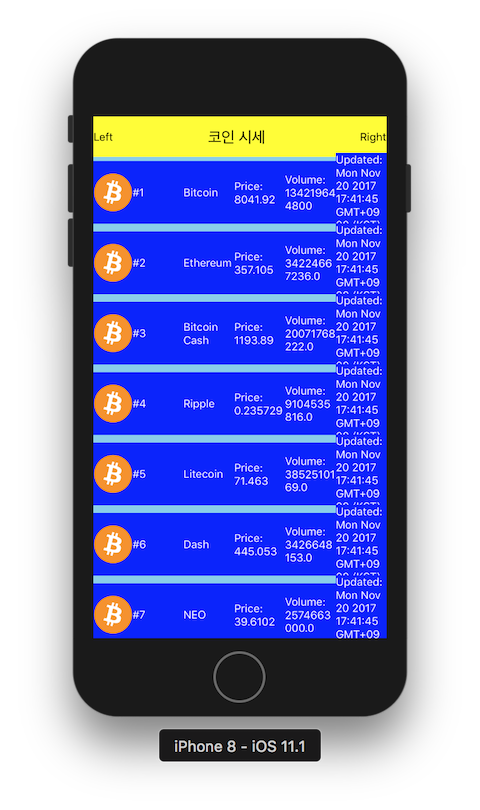
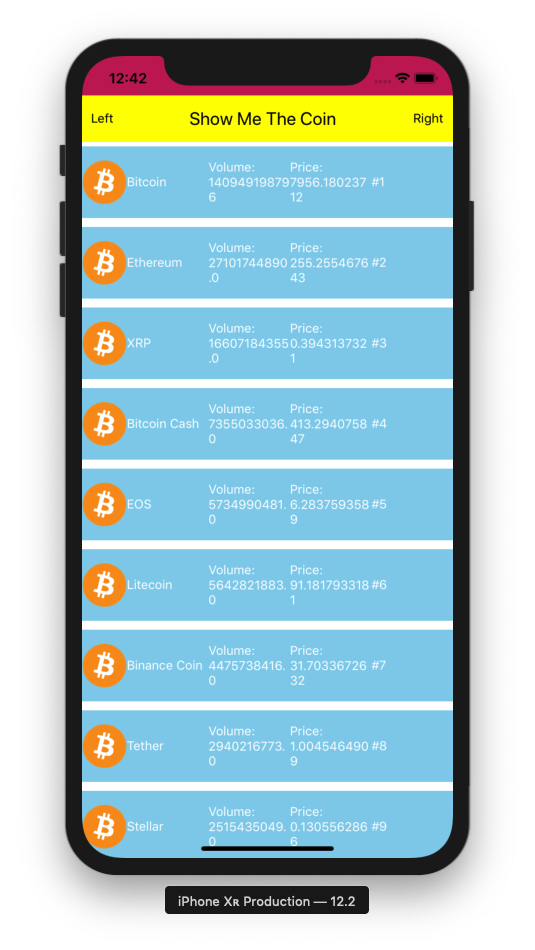
Apply real data

diff --git a/screens/CoinView.js b/screens/CoinView.js
@@ -2,47 +2,47 @@ import React from 'react';
 import { StyleSheet, Text, View } from 'react-native';
 import CoinItem from '../components/CoinItem';
 
-const sampleData = [
-  {
-        "id": "bitcoin",
-        "name": "Bitcoin",
-        "symbol": "BTC",
-        "rank": "1",
-        "price_usd": "6195.6",
-        "price_btc": "1.0",
-        "24h_volume_usd": "8119580000.0",
-        "market_cap_usd": "103323711420",
-        "available_supply": "16676950.0",
-        "total_supply": "16676950.0",
-        "max_supply": "21000000.0",
-        "percent_change_1h": "-1.8",
-        "percent_change_24h": "4.19",
-        "percent_change_7d": "-15.65",
-        "last_updated": "1510556652"
-    },
-    {
-        "id": "ethereum",
-        "name": "Ethereum",
-        "symbol": "ETH",
-        "rank": "2",
-        "price_usd": "310.13",
-        "price_btc": "0.0493027",
-        "24h_volume_usd": "1636680000.0",
-        "market_cap_usd": "29678006174.0",
-        "available_supply": "95695373.0",
-        "total_supply": "95695373.0",
-        "max_supply": null,
-        "percent_change_1h": "-0.89",
-        "percent_change_24h": "1.81",
-        "percent_change_7d": "4.39",
-        "last_updated": "1510556649"
-    },
-];
-
 class CoinView extends React.Component {
-  render() {
-    let coinItems = sampleData.map( (data, index) => {
-      const {rank, name, price_usd, market_cap_usd, time} = data; // Destructuring
+  constructor(props) {
+    super(props);
+    this.state = {
+      coinDatas: [],
+      isLoading: false,
+    };
+
+    // TODO: Toggle the state every second
+
+  }
+
+  componentDidMount() { // After component mounted
+    this._getCoinDatas(10);
+
+    setInterval(() => {
+      this._getCoinDatas(10);
+      console.log('toggled!');
+    }, 10000);
+  }
+
+  _getCoinDatas = async (limit) => {
+    this.setState({
+      isLoading: true,
+    });
+
+    try {
+      const response = await fetch(`https://api.coinmarketcap.com/v1/ticker/?limit=${limit}`);
+      const responseJson = await response.json();
+      await this.setState({
+        coinDatas: responseJson,
+        isLoading: false,
+      });
+    } catch(error) {
+      console.error('_getCoinDatas', error);
+    }
+  }
+
+  render () {
+    let coinItems = this.state.coinDatas.map( (data, index) => {
+      const {rank, name, price_usd, market_cap_usd, last_updated} = data; // Destructuring
       return (
         <CoinItem
           key={index}
@@ -55,21 +55,11 @@ class CoinView extends React.Component {
     });
 
     return (
-      <View style={[styles.container, this.props.style]}>
+      <View style={this.props.style}>
         {coinItems}
       </View>
-    );
+    )
   }
 }
-
-const styles = StyleSheet.create({
-  container: {
-    flex: 1,
-    flexDirection: 'column', // row
-    backgroundColor: 'skyblue',
-    // justifyContent: 'center',
-    // alignItems: 'center'
-  }
-});
 
 export default CoinView;

diff --git a/README.md b/README.md
@@ -634,14 +634,14 @@ class CoinView extends React.Component {
     super(props);
     this.state = {
       coinDatas: [],
-      isLoaded: false,
+      isLoading: false,
     };
 
-    // Toggle the state every second
+    // TODO: Toggle the state every second
 
   }
 
-  componentDidMount() { // After component loaded
+  componentDidMount() { // After component mounted
     this._getCoinDatas(10);
 
     setInterval(() => {
@@ -650,25 +650,25 @@ class CoinView extends React.Component {
     }, 10000);
   }
 
-  _getCoinDatas(limit) {
+  _getCoinDatas = async (limit) => {
     this.setState({
-      isLoaded: false,
+      isLoading: true,
     });
 
-    fetch(
-      `https://api.coinmarketcap.com/v1/ticker/?limit=${limit}`
-    )
-    .then(response => response.json())
-    .then(data => {
-      this.setState({
-        coinDatas: data,
-        isLoaded: true,
+    try {
+      const response = await fetch(`https://api.coinmarketcap.com/v1/ticker/?limit=${limit}`);
+      const responseJson = await response.json();
+      await this.setState({
+        coinDatas: responseJson,
+        isLoading: false,
       });
-    });
+    } catch(error) {
+      console.error('_getCoinDatas', error);
+    }
   }
 
   render () {
-    let detailCells = this.state.coinDatas.map( (data, index) => {
+    let coinItems = this.state.coinDatas.map( (data, index) => {
       const {rank, name, price_usd, market_cap_usd, last_updated} = data; // Destructuring
       return (
         <CoinItem
@@ -683,36 +683,18 @@ class CoinView extends React.Component {
 
     return (
       <View style={this.props.style}>
-        {detailCells}
+        {coinItems}
       </View>
     )
   }
 }
+
 export default CoinView;
-```
-
-
-#### components/CoinItem.js
-
-Change raw time to date format
-
-```js
-<Text style={[styles.text, {flex: 1}]}>{this.props.name || 'Name'}</Text>
-         <Text style={[styles.text, {flex: 1}]}>{'Price: ' + (this.props.price || 0)}</Text>
-         <Text style={[styles.text, {flex: 1}]}>{'Volume: ' + (this.props.volumn || 0)}</Text>
--        <Text style={[styles.text, {flex: 1}]}>{'Updated: ' + (this.props.time || now)}</Text>
-+        <Text style={[styles.text, {flex: 1}]}>{'Updated: ' + (Date(this.props.time) || now)}</Text> //Date
-       </View>
-     )
-   }
 ```
 
 #### Run
 
 ![RealData](/screenshots/realData.png)
-
-[Source](https://github.com/JeffGuKang/ReactNative-Tutorial/commit/4b77fc74772cb6d55c73c9555e4308dcb4c15f8b)
-
 
 ## 10. Upgrade TopBar
 
